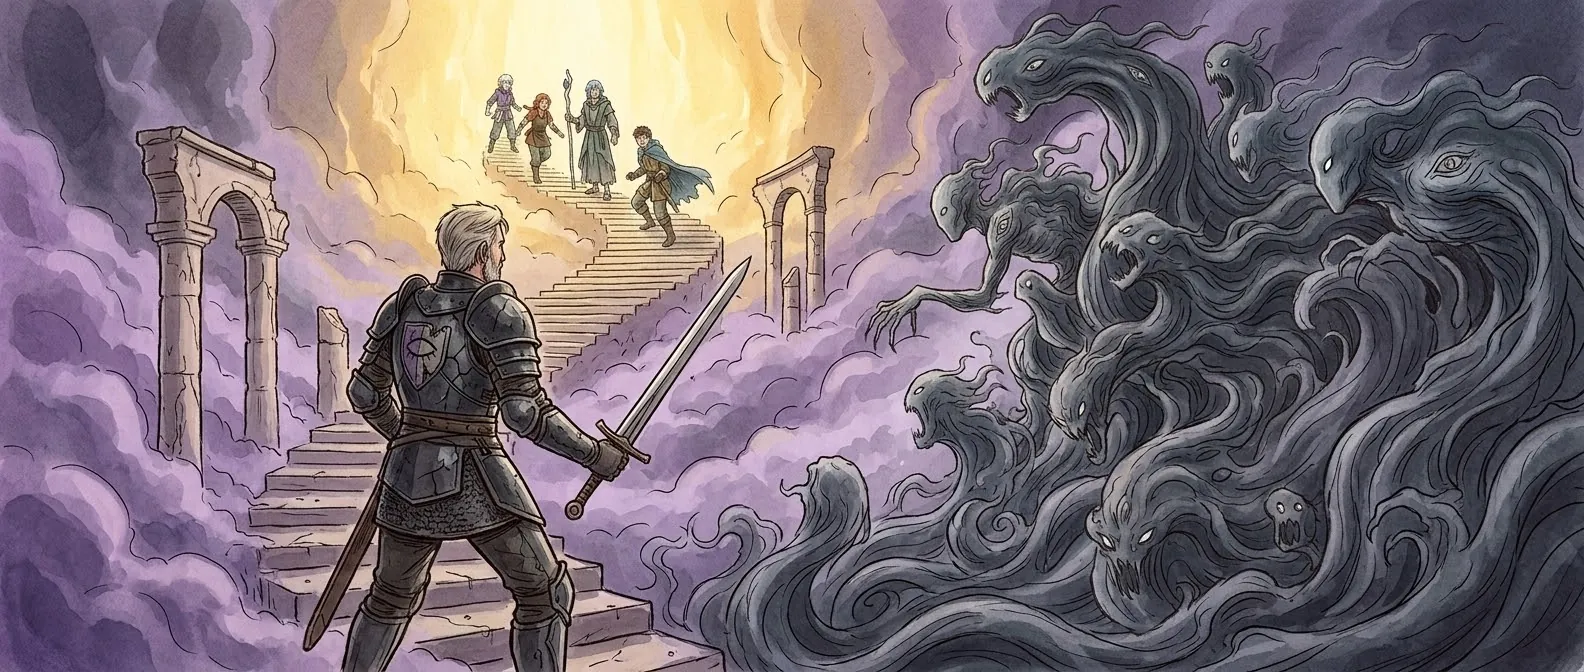
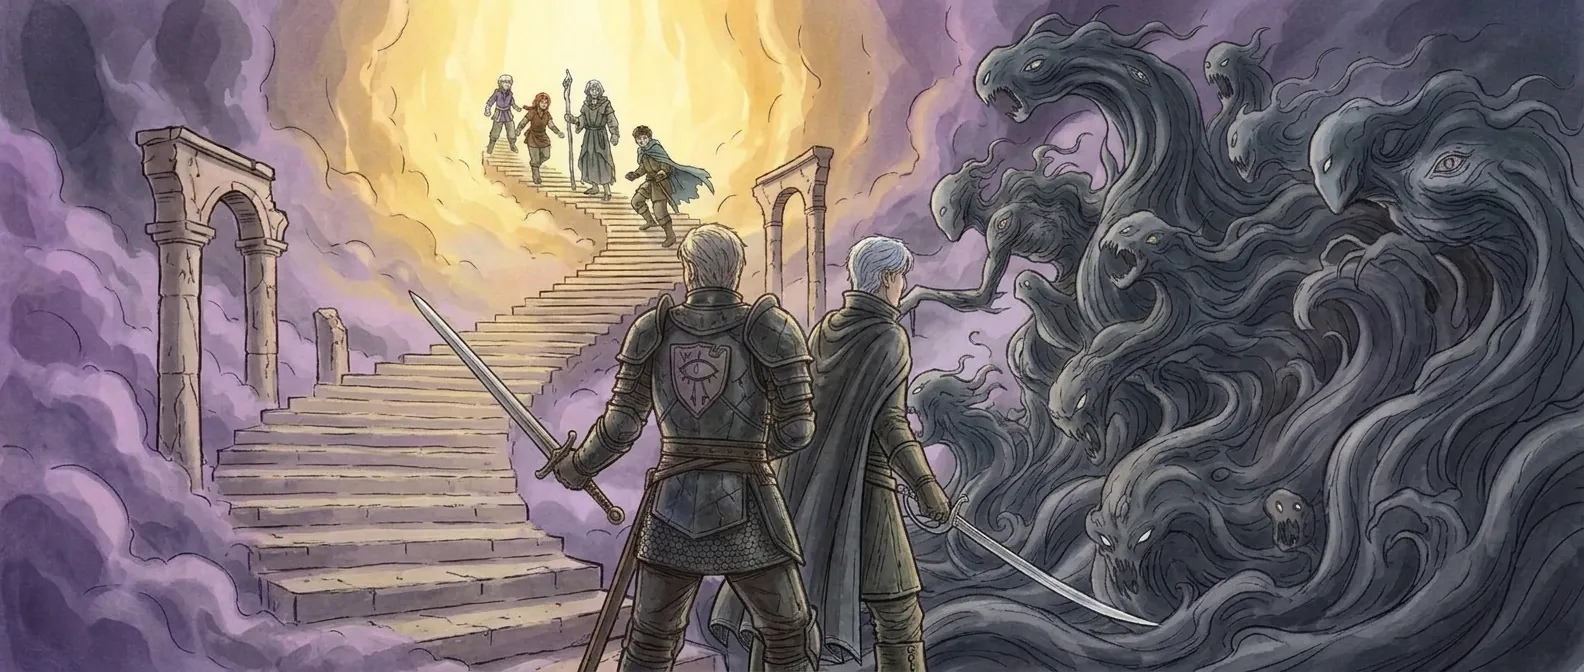
Panoramas de la fin : Aldric et Varen, Orvan prend l'ombre (#95)
* Bot : passe le générique de fin

Claude-Session: https://claude.ai/code/session_015Akdr9aGzvoTQninNWHTTC

* Panoramas de la fin : Aldric et Varen tiennent l'Escalier, Orvan prend l'ombre

Claude-Session: https://claude.ai/code/session_015Akdr9aGzvoTQninNWHTTC

---------

diff --git a/sw.js b/sw.js
@@ -4,8 +4,8 @@
    Chaque fichier est rangé avec son empreinte : une mise à jour ne retélécharge que les fichiers qui ont changé.
    La page passe par le réseau d'abord (mises à jour) ; tout le reste vient du cache.
    VERSION, FICHIERS ([chemin, empreinte]) et BASE sont réécrits par outils/construire.js à chaque publication. */
-var VERSION = '0.10.0-85be5f81';
-var FICHIERS = [["./","5fa81ddb"],["commun/ks-back.js","b8343c35"],["commun/ks-studio.js","3a1ce6fe"],["css/jeu.css","37f6380f"],["donnees/acte1.js","630291fa"],["donnees/acte2.js","20d985ac"],["donnees/acte3.js","9d50db37"],["donnees/acte4.js","65ace2b7"],["donnees/annexes.js","012f495c"],["donnees/heros.js","f017570b"],["donnees/images.js","3ceccf07"],["donnees/monde.js","86acb91a"],["donnees/monstres.js","4719bc0e"],["donnees/musiques.js","19f04395"],["donnees/objets.js","b7e9c123"],["donnees/personnages.js","e709b001"],["icon-192.png","8459efc5"],["img/studio/keismey-studio.webp","4303390d"],["img/titre/brume.webp","a7ee7abb"],["img/titre/paix.webp","0e7614b9"],["manifest.webmanifest","7ae7fe8a"],["moteur/base.js","021f13e8"],["moteur/carte.js","6d925697"],["moteur/combat.js","0aa4d4ec"],["moteur/debug.js","4c576027"],["moteur/etat.js","633edc5e"],["moteur/interface.js","83948f1d"],["moteur/jeu.js","93d562c0"],["moteur/menus.js","50e23ba8"],["moteur/provisoire.js","09a0784b"],["moteur/recit.js","3888f05a"],["moteur/scene.js","c4ece23d"],["moteur/son.js","9dfd027f"],["moteur/textes.js","52d8a96b"],["moteur/trailer.js","87f5122e"],["moteur/verrou.js","031564e8"],["moteur/village.js","e846b4a9"],["moteur/zone.js","b76270f2"],["polices/cinzel-600.woff2","f013ac32"],["polices/cinzel-700.woff2","e30aae05"],["polices/figtree-400.woff2","6f0c09ba"],["polices/figtree-500.woff2","f9c9da3b"],["polices/figtree-600.woff2","cdc20e28"],["polices/figtree-700.woff2","32c1002f"],["textes/en/acte1.txt","79c5f059"],["textes/en/acte2.txt","9a3a2d53"],["textes/en/acte3.txt","6a5d291c"],["textes/en/acte4.txt","154d6f51"],["textes/en/annexes.txt","8964e22c"],["textes/en/interface.txt","7db873ec"],["textes/en/lieux.txt","b8819fbf"],["textes/en/noms.txt","8381cb10"],["textes/en/personnages.txt","8e07ad09"],["textes/fr/acte1.txt","4f829adf"],["textes/fr/acte2.txt","3be81e00"],["textes/fr/acte3.txt","d037f418"],["textes/fr/acte4.txt","e008e470"],["textes/fr/annexes.txt","24a41298"],["textes/fr/interface.txt","74a30ac2"],["textes/fr/lieux.txt","a2da6de6"],["textes/fr/noms.txt","1bb2dc5b"],["textes/fr/personnages.txt","e4db1174"],["son/theme.m4a","45e9585f"],["icon-512.png","1f27ab78"],["icon-maskable.png","3f3fa852"],["img/affiche.jpg","a7808329"],["img/decors/aerie.webp","5eefc35d"],["img/decors/carriere-libre.webp","525ce2db"],["img/decors/carriere.webp","8f124f9a"],["img/decors/carte-cendre.webp","4b8ee5f9"],["img/decors/carte-cote.webp","03e4324d"],["img/decors/carte-vents.webp","eaa00d02"],["img/decors/carte.webp","425c1d1d"],["img/decors/champs.webp","81624862"],["img/decors/col-vide.webp","0c86ec33"],["img/decors/col.webp","9f4ab95f"],["img/decors/epave.webp","daa07e65"],["img/decors/escalier-sommet.webp","3695b293"],["img/decors/escalier.webp","91b3266c"],["img/decors/foret-calme.webp","45b1a19c"],["img/decors/foret.webp","96a72aaa"],["img/decors/forgecendre-libre.webp","0c9373ce"],["img/decors/forgecendre.webp","fa77a934"],["img/decors/grotte-sombre.webp","6d87d5fb"],["img/decors/grotte.webp","6ae4b073"],["img/decors/lanternes-allume.webp","65f73472"],["img/decors/lanternes.webp","8aded609"],["img/decors/lanterval.webp","ce721dff"],["img/decors/marais.webp","4795c7a7"],["img/decors/mines-libre.webp","f3052dcf"],["img/decors/mines.webp","339b8c79"],["img/decors/phare-libre.webp","3e823acf"],["img/decors/phare.webp","492f72ec"],["img/decors/pic.webp","e35cdb97"],["img/decors/pont.webp","f0461d69"],["img/decors/ruines.webp","fd8b4d83"],["img/decors/salvent-libre.webp","5b72c254"],["img/decors/salvent.webp","61f88e71"],["img/decors/volcan.webp","26980be1"],["img/heros/kael-portrait.webp","c89d39f3"],["img/heros/kael.webp","bdc29739"],["img/heros/mira-portrait.webp","8136078e"],["img/heros/mira.webp","df886acd"],["img/heros/nev-portrait.webp","72be16d8"],["img/heros/nev.webp","ce09f6f5"],["img/heros/sol-portrait.webp","093eefed"],["img/heros/sol.webp","747cbbed"],["img/pnj/agathe.webp","92ff7a9e"],["img/pnj/aldric.webp","b9a55744"],["img/pnj/aubergiste.webp","668b7a0b"],["img/pnj/berthe.webp","5cc05608"],["img/pnj/bosco.webp","e12c0c9c"],["img/pnj/brann.webp","1e842f36"],["img/pnj/dorn.webp","8dd4f1a4"],["img/pnj/edda.webp","8f9a2134"],["img/pnj/erwan.webp","574c676c"],["img/pnj/fennel.webp","cbb46e04"],["img/pnj/garrick.webp","3dc4027a"],["img/pnj/gaspard.webp","bc44b004"],["img/pnj/goran.webp","b56d1d26"],["img/pnj/heraut.webp","e8b1dca8"],["img/pnj/hilde.webp","25849faf"],["img/pnj/ilse.webp","616261fd"],["img/pnj/joran.webp","3f9d2d02"],["img/pnj/liss.webp","e4041e8d"],["img/pnj/loic.webp","4a06c71d"],["img/pnj/maelle.webp","273e1d31"],["img/pnj/naia.webp","27ee1475"],["img/pnj/nell.webp","91700e63"],["img/pnj/orvan.webp","ac57c3dc"],["img/pnj/pell.webp","f0da1389"],["img/pnj/pia.webp","8f218303"],["img/pnj/rosal.webp","b2da7344"],["img/pnj/roxane.webp","1db0d563"],["img/pnj/sansnom.webp","c87b5be9"],["img/pnj/silhouette.webp","0ee24d2c"],["img/pnj/tavor.webp","72a36284"],["img/pnj/tilo.webp","72c1a054"],["img/pnj/tobi.webp","c4ac89fa"],["img/pnj/varen.webp","bc510b02"],["img/pnj/ysold.webp","0870855f"],["img/panoramas/aerie.webp","f7033024"],["img/panoramas/aldric.webp","1c38054e"],["img/panoramas/berceuse.webp","24426071"],["img/panoramas/braise.webp","2e19b043"],["img/panoramas/cage-hilde.webp","3faeb791"],["img/panoramas/cage.webp","ce5ba906"],["img/panoramas/carnet.webp","6e9f88cf"],["img/panoramas/cerfvolant.webp","3da4eb5c"],["img/panoramas/chevre.webp","7cf99b74"],["img/panoramas/echo.webp","ef59a22e"],["img/panoramas/epave.webp","18e113fd"],["img/panoramas/epee.webp","0a2cd2f2"],["img/panoramas/epilogue-kael.webp","09667b70"],["img/panoramas/epilogue-mira.webp","c05e8815"],["img/panoramas/epilogue-nev.webp","eb3f7bbd"],["img/panoramas/epilogue-sol.webp","947b7be8"],["img/panoramas/fete-lanterne.webp","95d414cf"],["img/panoramas/feu.webp","5ecaceea"],["img/panoramas/fleur.webp","38d59345"],["img/panoramas/forge.webp","f7b2eae8"],["img/panoramas/forgecendre.webp","d018162c"],["img/panoramas/fresques.webp","4ba400e1"],["img/panoramas/gardien.webp","4a726f66"],["img/panoramas/insigne.webp","42d2fd26"],["img/panoramas/lac-sol.webp","f82e7379"],["img/panoramas/larmes.webp","dfd756cb"],["img/panoramas/loup-alpha.webp","d0d0442e"],["img/panoramas/masque.webp","0b43e49b"],["img/panoramas/mira-loups.webp","2fcb552e"],["img/panoramas/naia.webp","e5dada07"],["img/panoramas/nev-champs.webp","fbbfbeac"],["img/panoramas/oeil.webp","2a947e11"],["img/panoramas/ouverture.webp","bcce3aec"],["img/panoramas/phare.webp","7f96c301"],["img/panoramas/pont.webp","42d982d0"],["img/panoramas/rosal.webp","4b61f7cd"],["img/panoramas/salvent.webp","781c4da1"],["img/panoramas/tisseuse.webp","c87778a0"],["img/panoramas/toile-feu.webp","d8ac3c18"],["img/panoramas/veine.webp","df36b0de"],["img/panoramas/vision.webp","9b00991a"],["img/panoramas/wyverne.webp","dfe70de7"],["img/panoramas/ysold-azur.webp","3878669d"],["img/panoramas/ysold.webp","94c156ec"],["img/monstres/alpha.webp","ba9884f2"],["img/monstres/anguille.webp","7c35cb47"],["img/monstres/araignee.webp","85a09d47"],["img/monstres/automate.webp","4097ba8f"],["img/monstres/belier.webp","4c612e12"],["img/monstres/bosco.webp","cd449eb1"],["img/monstres/brume.webp","ab223071"],["img/monstres/chauve.webp","23352d94"],["img/monstres/chien.webp","3160886f"],["img/monstres/cloporte.webp","5dbcecbe"],["img/monstres/crabe.webp","073dae7c"],["img/monstres/crapaud.webp","d5a7c853"],["img/monstres/esprit.webp","9818f7ce"],["img/monstres/follet.webp","7e36a5e7"],["img/monstres/forgeur.webp","9e13d704"],["img/monstres/gardien.webp","b28df593"],["img/monstres/gargouille.webp","d5d29b85"],["img/monstres/gelee.webp","dec5590e"],["img/monstres/givre.webp","d5092b63"],["img/monstres/golem.webp","bf5a1eed"],["img/monstres/griffon.webp","f4c2a40f"],["img/monstres/harpie.webp","4fade1e0"],["img/monstres/heraut.webp","fdaba2d3"],["img/monstres/larmee.webp","8fba5e08"],["img/monstres/larmef.webp","8acc65bc"],["img/monstres/larmet.webp","1ed1ffe0"],["img/monstres/larmev.webp","593057eb"],["img/monstres/lezard.webp","d7100061"],["img/monstres/loup.webp","832a854a"],["img/monstres/mere.webp","c5144155"],["img/monstres/noye.webp","9a832184"],["img/monstres/nueeoubli.webp","686e8ede"],["img/monstres/ombre.webp","08af682b"],["img/monstres/paupiere.webp","83af5489"],["img/monstres/pie.webp","7ff307d6"],["img/monstres/poisson.webp","3e9016d7"],["img/monstres/prieur.webp","7c80fa23"],["img/monstres/rapace.webp","cc9687ab"],["img/monstres/rocaile-vol.webp","d708e4fd"],["img/monstres/rocaile.webp","1460f5e6"],["img/monstres/salamandre.webp","948712ca"],["img/monstres/salreine.webp","e35ad0a4"],["img/monstres/sanglier.webp","1090dfeb"],["img/monstres/sangsue.webp","ebc8226f"],["img/monstres/sansnom.webp","231e5a3b"],["img/monstres/scarabee.webp","15954788"],["img/monstres/sentinelle.webp","5b9c5ff8"],["img/monstres/serpent.webp","24a3c0ad"],["img/monstres/soldat.webp","776c4201"],["img/monstres/spectre.webp","46997380"],["img/monstres/spore.webp","6e3b266c"],["img/monstres/statue.webp","fd9c8228"],["img/monstres/sylphe.webp","1f0ebffb"],["img/monstres/taupe.webp","23f7e16b"],["img/monstres/tellure.webp","0a62842e"],["img/monstres/tisseuse.webp","edc89926"],["img/monstres/varen.webp","fe0654c6"],["img/monstres/veilleur.webp","5a60c822"],["img/monstres/ver.webp","f3242259"],["img/monstres/vouivre.webp","3ac9fea5"],["img/monstres/wyverne.webp","6b06dd33"],["img/monstres/ysold.webp","47730aa5"],["son/aerie.m4a","be787973"],["son/boss.m4a","de338f71"],["son/brume.m4a","97e1b0d0"],["son/cendre.m4a","66a2cdeb"],["son/combat.m4a","34efbf29"],["son/cote.m4a","d55da8a4"],["son/emotion.m4a","18726b29"],["son/epilogue.m4a","39f5f093"],["son/escalier.m4a","b2af8835"],["son/final.m4a","f5ff3358"],["son/forgecendre.m4a","21fff0ac"],["son/lanterval.m4a","7157227f"],["son/menace.m4a","147bd011"],["son/salvent.m4a","45aec804"],["son/vallee.m4a","f04b4e6c"],["son/vents.m4a","d5dfe201"],["son/voyage.m4a","ba7a067b"]];
+var VERSION = '0.10.0-52138ed5';
+var FICHIERS = [["./","5fa81ddb"],["commun/ks-back.js","b8343c35"],["commun/ks-studio.js","3a1ce6fe"],["css/jeu.css","37f6380f"],["donnees/acte1.js","630291fa"],["donnees/acte2.js","20d985ac"],["donnees/acte3.js","9d50db37"],["donnees/acte4.js","bdda3017"],["donnees/annexes.js","012f495c"],["donnees/heros.js","f017570b"],["donnees/images.js","79c4ac62"],["donnees/monde.js","86acb91a"],["donnees/monstres.js","4719bc0e"],["donnees/musiques.js","19f04395"],["donnees/objets.js","b7e9c123"],["donnees/personnages.js","e709b001"],["icon-192.png","8459efc5"],["img/studio/keismey-studio.webp","4303390d"],["img/titre/brume.webp","a7ee7abb"],["img/titre/paix.webp","0e7614b9"],["manifest.webmanifest","7ae7fe8a"],["moteur/base.js","021f13e8"],["moteur/carte.js","6d925697"],["moteur/combat.js","0aa4d4ec"],["moteur/debug.js","4c576027"],["moteur/etat.js","633edc5e"],["moteur/interface.js","83948f1d"],["moteur/jeu.js","93d562c0"],["moteur/menus.js","50e23ba8"],["moteur/provisoire.js","09a0784b"],["moteur/recit.js","3888f05a"],["moteur/scene.js","c4ece23d"],["moteur/son.js","9dfd027f"],["moteur/textes.js","52d8a96b"],["moteur/trailer.js","87f5122e"],["moteur/verrou.js","031564e8"],["moteur/village.js","e846b4a9"],["moteur/zone.js","b76270f2"],["polices/cinzel-600.woff2","f013ac32"],["polices/cinzel-700.woff2","e30aae05"],["polices/figtree-400.woff2","6f0c09ba"],["polices/figtree-500.woff2","f9c9da3b"],["polices/figtree-600.woff2","cdc20e28"],["polices/figtree-700.woff2","32c1002f"],["textes/en/acte1.txt","79c5f059"],["textes/en/acte2.txt","9a3a2d53"],["textes/en/acte3.txt","6a5d291c"],["textes/en/acte4.txt","154d6f51"],["textes/en/annexes.txt","8964e22c"],["textes/en/interface.txt","7db873ec"],["textes/en/lieux.txt","b8819fbf"],["textes/en/noms.txt","8381cb10"],["textes/en/personnages.txt","8e07ad09"],["textes/fr/acte1.txt","4f829adf"],["textes/fr/acte2.txt","3be81e00"],["textes/fr/acte3.txt","d037f418"],["textes/fr/acte4.txt","e008e470"],["textes/fr/annexes.txt","24a41298"],["textes/fr/interface.txt","74a30ac2"],["textes/fr/lieux.txt","a2da6de6"],["textes/fr/noms.txt","1bb2dc5b"],["textes/fr/personnages.txt","e4db1174"],["son/theme.m4a","45e9585f"],["icon-512.png","1f27ab78"],["icon-maskable.png","3f3fa852"],["img/affiche.jpg","a7808329"],["img/decors/aerie.webp","5eefc35d"],["img/decors/carriere-libre.webp","525ce2db"],["img/decors/carriere.webp","8f124f9a"],["img/decors/carte-cendre.webp","4b8ee5f9"],["img/decors/carte-cote.webp","03e4324d"],["img/decors/carte-vents.webp","eaa00d02"],["img/decors/carte.webp","425c1d1d"],["img/decors/champs.webp","81624862"],["img/decors/col-vide.webp","0c86ec33"],["img/decors/col.webp","9f4ab95f"],["img/decors/epave.webp","daa07e65"],["img/decors/escalier-sommet.webp","3695b293"],["img/decors/escalier.webp","91b3266c"],["img/decors/foret-calme.webp","45b1a19c"],["img/decors/foret.webp","96a72aaa"],["img/decors/forgecendre-libre.webp","0c9373ce"],["img/decors/forgecendre.webp","fa77a934"],["img/decors/grotte-sombre.webp","6d87d5fb"],["img/decors/grotte.webp","6ae4b073"],["img/decors/lanternes-allume.webp","65f73472"],["img/decors/lanternes.webp","8aded609"],["img/decors/lanterval.webp","ce721dff"],["img/decors/marais.webp","4795c7a7"],["img/decors/mines-libre.webp","f3052dcf"],["img/decors/mines.webp","339b8c79"],["img/decors/phare-libre.webp","3e823acf"],["img/decors/phare.webp","492f72ec"],["img/decors/pic.webp","e35cdb97"],["img/decors/pont.webp","f0461d69"],["img/decors/ruines.webp","fd8b4d83"],["img/decors/salvent-libre.webp","5b72c254"],["img/decors/salvent.webp","61f88e71"],["img/decors/volcan.webp","26980be1"],["img/heros/kael-portrait.webp","c89d39f3"],["img/heros/kael.webp","bdc29739"],["img/heros/mira-portrait.webp","8136078e"],["img/heros/mira.webp","df886acd"],["img/heros/nev-portrait.webp","72be16d8"],["img/heros/nev.webp","ce09f6f5"],["img/heros/sol-portrait.webp","093eefed"],["img/heros/sol.webp","747cbbed"],["img/pnj/agathe.webp","92ff7a9e"],["img/pnj/aldric.webp","b9a55744"],["img/pnj/aubergiste.webp","668b7a0b"],["img/pnj/berthe.webp","5cc05608"],["img/pnj/bosco.webp","e12c0c9c"],["img/pnj/brann.webp","1e842f36"],["img/pnj/dorn.webp","8dd4f1a4"],["img/pnj/edda.webp","8f9a2134"],["img/pnj/erwan.webp","574c676c"],["img/pnj/fennel.webp","cbb46e04"],["img/pnj/garrick.webp","3dc4027a"],["img/pnj/gaspard.webp","bc44b004"],["img/pnj/goran.webp","b56d1d26"],["img/pnj/heraut.webp","e8b1dca8"],["img/pnj/hilde.webp","25849faf"],["img/pnj/ilse.webp","616261fd"],["img/pnj/joran.webp","3f9d2d02"],["img/pnj/liss.webp","e4041e8d"],["img/pnj/loic.webp","4a06c71d"],["img/pnj/maelle.webp","273e1d31"],["img/pnj/naia.webp","27ee1475"],["img/pnj/nell.webp","91700e63"],["img/pnj/orvan.webp","ac57c3dc"],["img/pnj/pell.webp","f0da1389"],["img/pnj/pia.webp","8f218303"],["img/pnj/rosal.webp","b2da7344"],["img/pnj/roxane.webp","1db0d563"],["img/pnj/sansnom.webp","c87b5be9"],["img/pnj/silhouette.webp","0ee24d2c"],["img/pnj/tavor.webp","72a36284"],["img/pnj/tilo.webp","72c1a054"],["img/pnj/tobi.webp","c4ac89fa"],["img/pnj/varen.webp","bc510b02"],["img/pnj/ysold.webp","0870855f"],["img/panoramas/aerie.webp","f7033024"],["img/panoramas/aldric.webp","9d6fd075"],["img/panoramas/berceuse.webp","24426071"],["img/panoramas/braise.webp","2e19b043"],["img/panoramas/cage-hilde.webp","3faeb791"],["img/panoramas/cage.webp","ce5ba906"],["img/panoramas/carnet.webp","6e9f88cf"],["img/panoramas/cerfvolant.webp","3da4eb5c"],["img/panoramas/chevre.webp","7cf99b74"],["img/panoramas/echo.webp","ef59a22e"],["img/panoramas/epave.webp","18e113fd"],["img/panoramas/epee.webp","0a2cd2f2"],["img/panoramas/epilogue-kael.webp","09667b70"],["img/panoramas/epilogue-mira.webp","c05e8815"],["img/panoramas/epilogue-nev.webp","eb3f7bbd"],["img/panoramas/epilogue-sol.webp","947b7be8"],["img/panoramas/fete-lanterne.webp","95d414cf"],["img/panoramas/feu.webp","5ecaceea"],["img/panoramas/fleur.webp","38d59345"],["img/panoramas/forge.webp","f7b2eae8"],["img/panoramas/forgecendre.webp","d018162c"],["img/panoramas/fresques.webp","4ba400e1"],["img/panoramas/gardien.webp","4a726f66"],["img/panoramas/insigne.webp","42d2fd26"],["img/panoramas/lac-sol.webp","f82e7379"],["img/panoramas/larmes.webp","dfd756cb"],["img/panoramas/loup-alpha.webp","d0d0442e"],["img/panoramas/masque.webp","0b43e49b"],["img/panoramas/mira-loups.webp","2fcb552e"],["img/panoramas/naia.webp","e5dada07"],["img/panoramas/nev-champs.webp","fbbfbeac"],["img/panoramas/oeil.webp","2a947e11"],["img/panoramas/orvan.webp","b3da2b35"],["img/panoramas/ouverture.webp","bcce3aec"],["img/panoramas/phare.webp","7f96c301"],["img/panoramas/pont.webp","42d982d0"],["img/panoramas/rosal.webp","4b61f7cd"],["img/panoramas/salvent.webp","781c4da1"],["img/panoramas/tisseuse.webp","c87778a0"],["img/panoramas/toile-feu.webp","d8ac3c18"],["img/panoramas/veine.webp","df36b0de"],["img/panoramas/vision.webp","9b00991a"],["img/panoramas/wyverne.webp","dfe70de7"],["img/panoramas/ysold-azur.webp","3878669d"],["img/panoramas/ysold.webp","94c156ec"],["img/monstres/alpha.webp","ba9884f2"],["img/monstres/anguille.webp","7c35cb47"],["img/monstres/araignee.webp","85a09d47"],["img/monstres/automate.webp","4097ba8f"],["img/monstres/belier.webp","4c612e12"],["img/monstres/bosco.webp","cd449eb1"],["img/monstres/brume.webp","ab223071"],["img/monstres/chauve.webp","23352d94"],["img/monstres/chien.webp","3160886f"],["img/monstres/cloporte.webp","5dbcecbe"],["img/monstres/crabe.webp","073dae7c"],["img/monstres/crapaud.webp","d5a7c853"],["img/monstres/esprit.webp","9818f7ce"],["img/monstres/follet.webp","7e36a5e7"],["img/monstres/forgeur.webp","9e13d704"],["img/monstres/gardien.webp","b28df593"],["img/monstres/gargouille.webp","d5d29b85"],["img/monstres/gelee.webp","dec5590e"],["img/monstres/givre.webp","d5092b63"],["img/monstres/golem.webp","bf5a1eed"],["img/monstres/griffon.webp","f4c2a40f"],["img/monstres/harpie.webp","4fade1e0"],["img/monstres/heraut.webp","fdaba2d3"],["img/monstres/larmee.webp","8fba5e08"],["img/monstres/larmef.webp","8acc65bc"],["img/monstres/larmet.webp","1ed1ffe0"],["img/monstres/larmev.webp","593057eb"],["img/monstres/lezard.webp","d7100061"],["img/monstres/loup.webp","832a854a"],["img/monstres/mere.webp","c5144155"],["img/monstres/noye.webp","9a832184"],["img/monstres/nueeoubli.webp","686e8ede"],["img/monstres/ombre.webp","08af682b"],["img/monstres/paupiere.webp","83af5489"],["img/monstres/pie.webp","7ff307d6"],["img/monstres/poisson.webp","3e9016d7"],["img/monstres/prieur.webp","7c80fa23"],["img/monstres/rapace.webp","cc9687ab"],["img/monstres/rocaile-vol.webp","d708e4fd"],["img/monstres/rocaile.webp","1460f5e6"],["img/monstres/salamandre.webp","948712ca"],["img/monstres/salreine.webp","e35ad0a4"],["img/monstres/sanglier.webp","1090dfeb"],["img/monstres/sangsue.webp","ebc8226f"],["img/monstres/sansnom.webp","231e5a3b"],["img/monstres/scarabee.webp","15954788"],["img/monstres/sentinelle.webp","5b9c5ff8"],["img/monstres/serpent.webp","24a3c0ad"],["img/monstres/soldat.webp","776c4201"],["img/monstres/spectre.webp","46997380"],["img/monstres/spore.webp","6e3b266c"],["img/monstres/statue.webp","fd9c8228"],["img/monstres/sylphe.webp","1f0ebffb"],["img/monstres/taupe.webp","23f7e16b"],["img/monstres/tellure.webp","0a62842e"],["img/monstres/tisseuse.webp","edc89926"],["img/monstres/varen.webp","fe0654c6"],["img/monstres/veilleur.webp","5a60c822"],["img/monstres/ver.webp","f3242259"],["img/monstres/vouivre.webp","3ac9fea5"],["img/monstres/wyverne.webp","6b06dd33"],["img/monstres/ysold.webp","47730aa5"],["son/aerie.m4a","be787973"],["son/boss.m4a","de338f71"],["son/brume.m4a","97e1b0d0"],["son/cendre.m4a","66a2cdeb"],["son/combat.m4a","34efbf29"],["son/cote.m4a","d55da8a4"],["son/emotion.m4a","18726b29"],["son/epilogue.m4a","39f5f093"],["son/escalier.m4a","b2af8835"],["son/final.m4a","f5ff3358"],["son/forgecendre.m4a","21fff0ac"],["son/lanterval.m4a","7157227f"],["son/menace.m4a","147bd011"],["son/salvent.m4a","45aec804"],["son/vallee.m4a","f04b4e6c"],["son/vents.m4a","d5dfe201"],["son/voyage.m4a","ba7a067b"]];
 var BASE = ["./","commun/ks-back.js","commun/ks-studio.js","css/jeu.css","donnees/acte1.js","donnees/acte2.js","donnees/acte3.js","donnees/acte4.js","donnees/annexes.js","donnees/heros.js","donnees/images.js","donnees/monde.js","donnees/monstres.js","donnees/musiques.js","donnees/objets.js","donnees/personnages.js","icon-192.png","img/studio/keismey-studio.webp","img/titre/brume.webp","img/titre/paix.webp","manifest.webmanifest","moteur/base.js","moteur/carte.js","moteur/combat.js","moteur/debug.js","moteur/etat.js","moteur/interface.js","moteur/jeu.js","moteur/menus.js","moteur/provisoire.js","moteur/recit.js","moteur/scene.js","moteur/son.js","moteur/textes.js","moteur/trailer.js","moteur/verrou.js","moteur/village.js","moteur/zone.js","polices/cinzel-600.woff2","polices/cinzel-700.woff2","polices/figtree-400.woff2","polices/figtree-500.woff2","polices/figtree-600.woff2","polices/figtree-700.woff2","textes/en/acte1.txt","textes/en/acte2.txt","textes/en/acte3.txt","textes/en/acte4.txt","textes/en/annexes.txt","textes/en/interface.txt","textes/en/lieux.txt","textes/en/noms.txt","textes/en/personnages.txt","textes/fr/acte1.txt","textes/fr/acte2.txt","textes/fr/acte3.txt","textes/fr/acte4.txt","textes/fr/annexes.txt","textes/fr/interface.txt","textes/fr/lieux.txt","textes/fr/noms.txt","textes/fr/personnages.txt","son/theme.m4a"];
 var CACHE = 'lanterval-fichiers';
 var EMP = {};

diff --git a/donnees/images.js b/donnees/images.js
@@ -216,7 +216,8 @@ const IMAGES = {
   'monstre.echosansnom': { fichier: 'img/monstres/sansnom.webp', provisoire: 'sansnom', brume: true, sujet: 'Écho du Sans-Nom (image du Sans-Nom en brume)' },
   'pnj.aldric': { fichier: 'img/pnj/aldric.webp', portrait: 'img/pnj/aldric.webp', provisoire: 'f_aldric', sujet: 'Aldric, père de Kael, la quarantaine, cheveux blonds grisonnants, barbe courte, armure noire de l\'Ordre fendue, sans masque' },
   'pnj.garrick': { fichier: 'img/pnj/garrick.webp', portrait: 'img/pnj/garrick.webp', provisoire: 'f_garrick', sujet: 'Garrick, vieux chasseur d\'Aerie, cheveux gris en bataille, bandeau sur un œil, manteau de plumes et de fourrure' },
-  'pano.aldric': { fichier: 'img/panoramas/aldric.webp', sujet: 'Sur l\'Escalier de brume, Aldric sans masque, l\'épée de Kael à la main, retient seul une marée d\'Ombres pour laisser passer l\'équipe' },
+  'pano.aldric': { fichier: 'img/panoramas/aldric.webp', sujet: 'Sur l\'Escalier de brume, Aldric sans masque et Varen, côte à côte, retiennent une marée d\'Ombres pour laisser passer l\'équipe' },
+  'pano.orvan': { fichier: 'img/panoramas/orvan.webp', sujet: 'Au Cœur de l\'Œil, Orvan se jette devant les quatre héros et prend l\'ombre de la Paupière en pleine poitrine ; Ysold à genoux, les cristaux intacts' },
   'pano.ysold': { fichier: 'img/panoramas/ysold.webp', sujet: 'Au Cœur de l\'Œil, Ysold flotte au-dessus d\'une plateforme de pierre, fusionnée aux quatre cristaux qui tournent autour d\'elle' },
   'pano.oeil': { fichier: 'img/panoramas/oeil.webp', sujet: 'L\'Œil du monde s\'ouvre au-dessus des nuages : la paupière de pierre se fend, la lumière coule vers les quatre régions' },
   'pano.epilogue.kael': { fichier: 'img/panoramas/epilogue-kael.webp', sujet: 'Épilogue de Kael : Lanterval au matin, Kael en garde sur les remparts, l\'épée à la lanterne au côté, la vallée claire sans brume' },

diff --git a/outils/bot.js b/outils/bot.js
@@ -331,6 +331,8 @@ function cerveau([graine, profil]) {
   // les dialogues : on choisit la première réponse qui n'est pas « Plus tard » ; les fenêtres se ferment
   async function repondre() {
     return page.evaluate(() => {
+      // le générique de fin : un appui affiche tout, un second le ferme
+      const g = document.querySelector('.generique'); if (g) { g.click(); return true; }
       const m = document.querySelector('#modal .modal');
       if (m) { const x = m.querySelector('#mclose') || m.querySelector('button'); if (x) { x.click(); return true; } }
       const b = [...document.querySelectorAll('#panel button[data-i]:not([disabled])')];

diff --git a/donnees/acte4.js b/donnees/acte4.js
@@ -158,6 +158,7 @@ ACTES.push({
       ['decor'],
       ['combat', 'ysold', { boss: true, conseil: 'a4.e10.conseil' }],
       ['dialogue', 'a4.e10.paupiere'],
+      ['panorama', 'pano.orvan'],
       ['dialogue', 'a4.e10.orvan'],
       ['combat', 'paupiere', { boss: true, equipe: 'kael mira sol nev', conseil: 'a4.e10.conseil2' }],
       ['panorama', 'pano.oeil'],

diff --git a/outils/images.py b/outils/images.py
@@ -54,6 +54,7 @@ LISTE = [
     ('panorama-larmes.jpg', 'panoramas/larmes.webp', 'decor', {'largeur': 1584}),
     ('panorama-fleur.jpg', 'panoramas/fleur.webp', 'decor', {'largeur': 1584}),
     ('panorama-aldric.jpg', 'panoramas/aldric.webp', 'decor', {'largeur': 1584}),
+    ('panorama-orvan.jpg', 'panoramas/orvan.webp', 'decor', {'largeur': 1584}),
     ('panorama-ysold.jpg', 'panoramas/ysold.webp', 'decor', {'largeur': 1584}),
     ('panorama-oeil.jpg', 'panoramas/oeil.webp', 'decor', {'largeur': 1584}),
     ('panorama-epilogue-kael.jpg', 'panoramas/epilogue-kael.webp', 'decor', {'largeur': 1584}),
